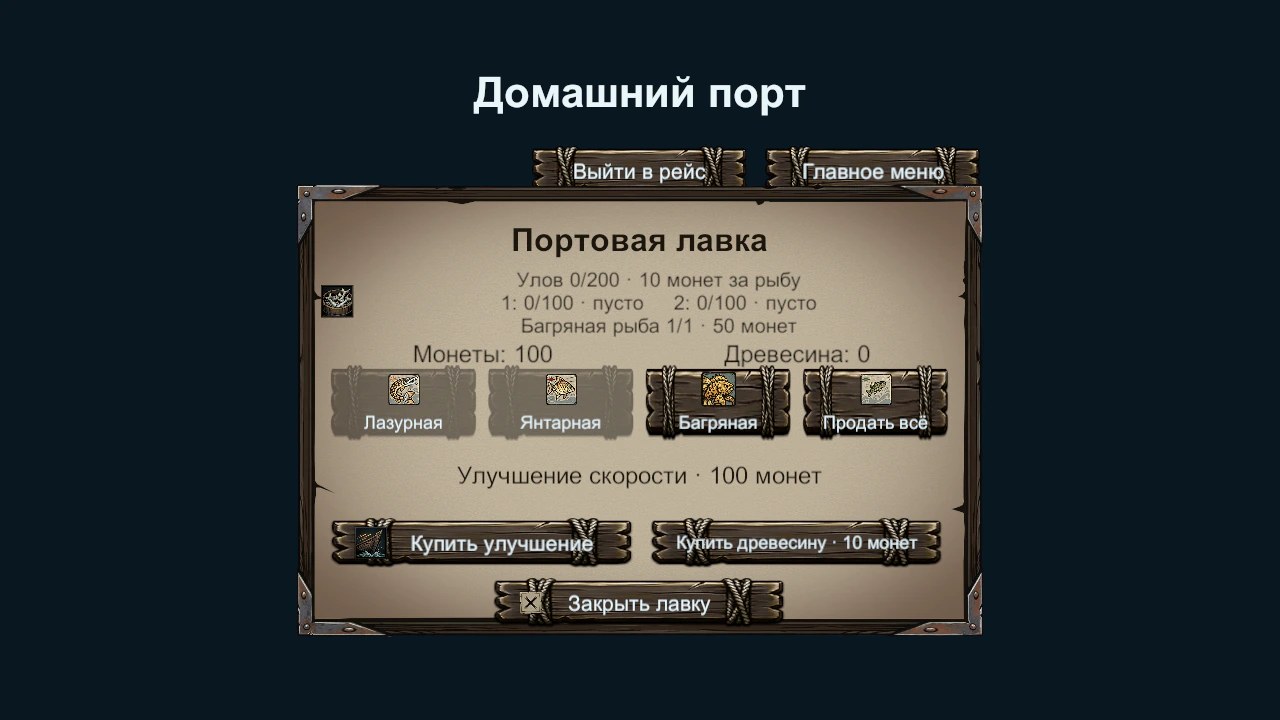
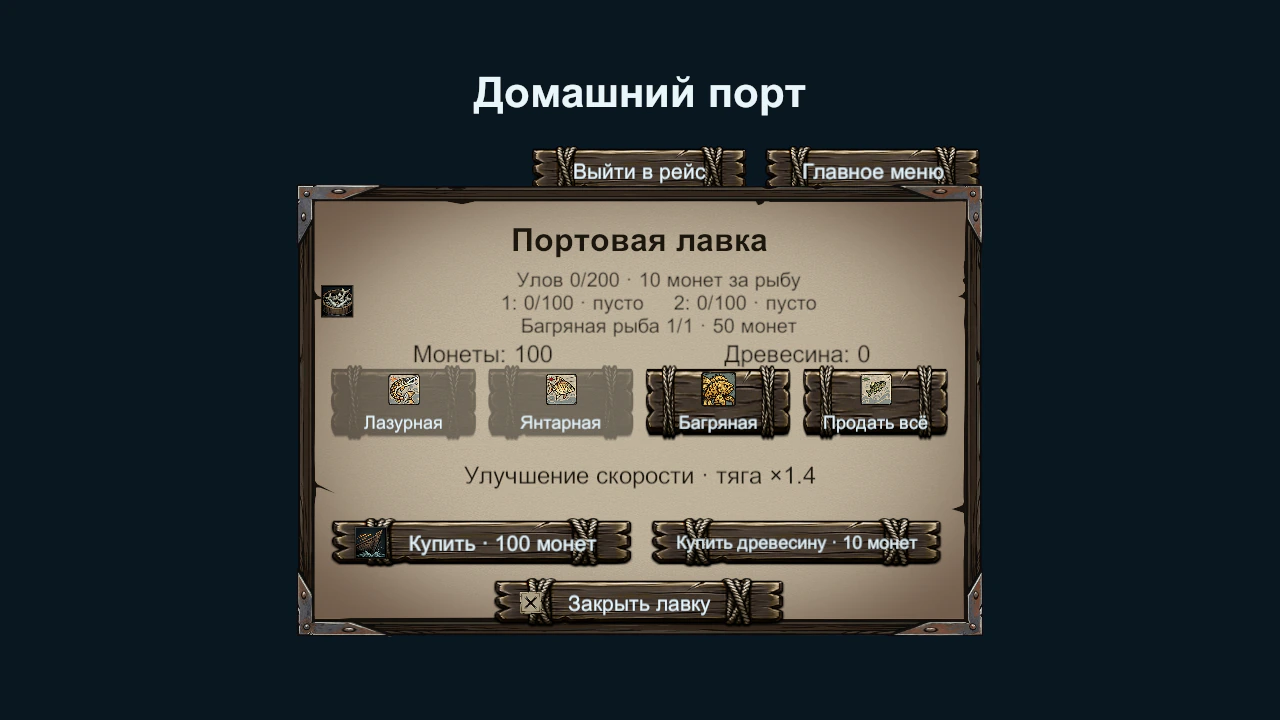
[S1] Обновить кадры купленного улучшения и карточки замены

Changed region(s): [[0.3438, 0.6417, 0.6562, 0.6722], [0.3125, 0.7333, 0.4688, 0.7639]]

diff --git a/docs/evidence/s1-ui/README.md b/docs/evidence/s1-ui/README.md
@@ -1,11 +1,12 @@
 # Лавка и HUD в финальной сборке S1
 
-Диагностический macOS Player 0.1.3 собран в Unity 6000.5.1f1 из [7d06301](https://github.com/RelaxerR/raid-s3-jamstorm/commit/7d063014945880ef90c8bb1471a0285eb19cd6e3). Сценарий запущен из Boot при двух разрешениях. Кадры сняты с экрана Player. Контрольные состояния подготовлены в отдельной копии проекта.
+Проверки выполнены в диагностическом macOS Player 0.1.3, Unity 6000.5.1f1. Кадры лавки и карточки улова пересняты с правкой показа цены и размеров карточки на базе [8338289](https://github.com/RelaxerR/raid-s3-jamstorm/commit/833828999d12e13376840e9ee7323ce0927a39ac). Кадры крена и станций относятся к [7d06301](https://github.com/RelaxerR/raid-s3-jamstorm/commit/7d063014945880ef90c8bb1471a0285eb19cd6e3). Сценарий запущен из Boot при двух разрешениях. Кадры сняты с экрана Player. Контрольные состояния подготовлены в отдельной копии проекта.
 
 | Сценарий | 1280×720 | 1920×1080 |
 |---|---|---|
 | Лавка сразу после старта, 0 монет | [Кадр](shop-unavailable-1280.webp) | [Кадр](shop-unavailable-1920.webp) |
 | Лавка после продажи, 100 монет | [Кадр](shop-available-1280.webp) | [Кадр](shop-available-1920.webp) |
+| Лавка сразу после покупки | [Кадр](shop-owned-1280.webp) | [Кадр](shop-owned-1920.webp) |
 | Уникальная рыба, место на палубе занято | [Кадр](occupied-1280.webp) | [Кадр](occupied-1920.webp) |
 | Подсказка подбора возле станции при крене | [Кадр](roll-hint-1280.webp) | [Кадр](roll-hint-1920.webp) |
 | Смена значка станции, фрагменты HUD сверху вниз — руль, сети, гарпун | [Фрагменты](stations-1280.webp) | [Фрагменты](stations-1920.webp) |
@@ -14,6 +15,6 @@
 
 ## Как воспроизвести
 
-1. Начать новую игру и открыть лавку. При нулевом балансе кнопки покупки затемнены. После продажи десяти лазурных рыб за 100 монет доступны улучшение скорости и древесина. Сценарий готовил контрольный улов через API сессии и продавал только лазурную рыбу, сохраняя багряную на палубе.
+1. Начать новую игру и открыть лавку. При нулевом балансе кнопки покупки затемнены. До покупки видны цена на кнопке и множитель тяги. После покупки на кнопке появляется «Куплено». После продажи десяти лазурных рыб за 100 монет доступны улучшение скорости и древесина. Сценарий готовил контрольный улов через API сессии и продавал только лазурную рыбу, сохраняя багряную на палубе.
 2. По очереди занять руль, сети и гарпун. Проверить название режима и пиктограмму в левой части HUD. Доставить рыбу сетью на палубу и встать возле станции. В кадре с наклоном корпуса видны рыба и подсказка «ЛКМ по рыбе — в бочку». Для повторяемости сценарий задавал крен около 12° и проверял луч от игровой камеры к рыбам с учётом перекрытия панелью подсказок.
-3. Оставить багряную рыбу на палубе и в новом рейсе открыть карточку следующей рыбы. Проверить вопрос «Заменить тушу на палубе?» и обе кнопки — «Отпустить» и «Заменить». Для снимка Player сценарий выставлял состояние зафиксированной рыбы и открытой карточки. Последовательность вываживания, отпускания и замены с игровым вводом прошёл PlayMode-сценарий `CatchCardReleasesKeepsAndReplacesOneCarcassAcrossVoyages` на 61b42b7. В 7d06301 изменился номер версии.
+3. Оставить багряную рыбу на палубе и в новом рейсе открыть карточку следующей рыбы. Проверить вопрос «Заменить тушу на палубе?» и обе кнопки — «Отпустить» и «Заменить». Для снимка Player сценарий выставлял состояние зафиксированной рыбы и открытой карточки. Последовательность вываживания, отпускания и замены с игровым вводом прошёл PlayMode-сценарий `CatchCardReleasesKeepsAndReplacesOneCarcassAcrossVoyages` на версии с увеличенной карточкой. Переход между состояниями лавки и доступность кнопки покупки проверяет `PortButtonsReflectSessionAcrossSalePurchaseAndNewVoyage`. Оба теста прошли.
